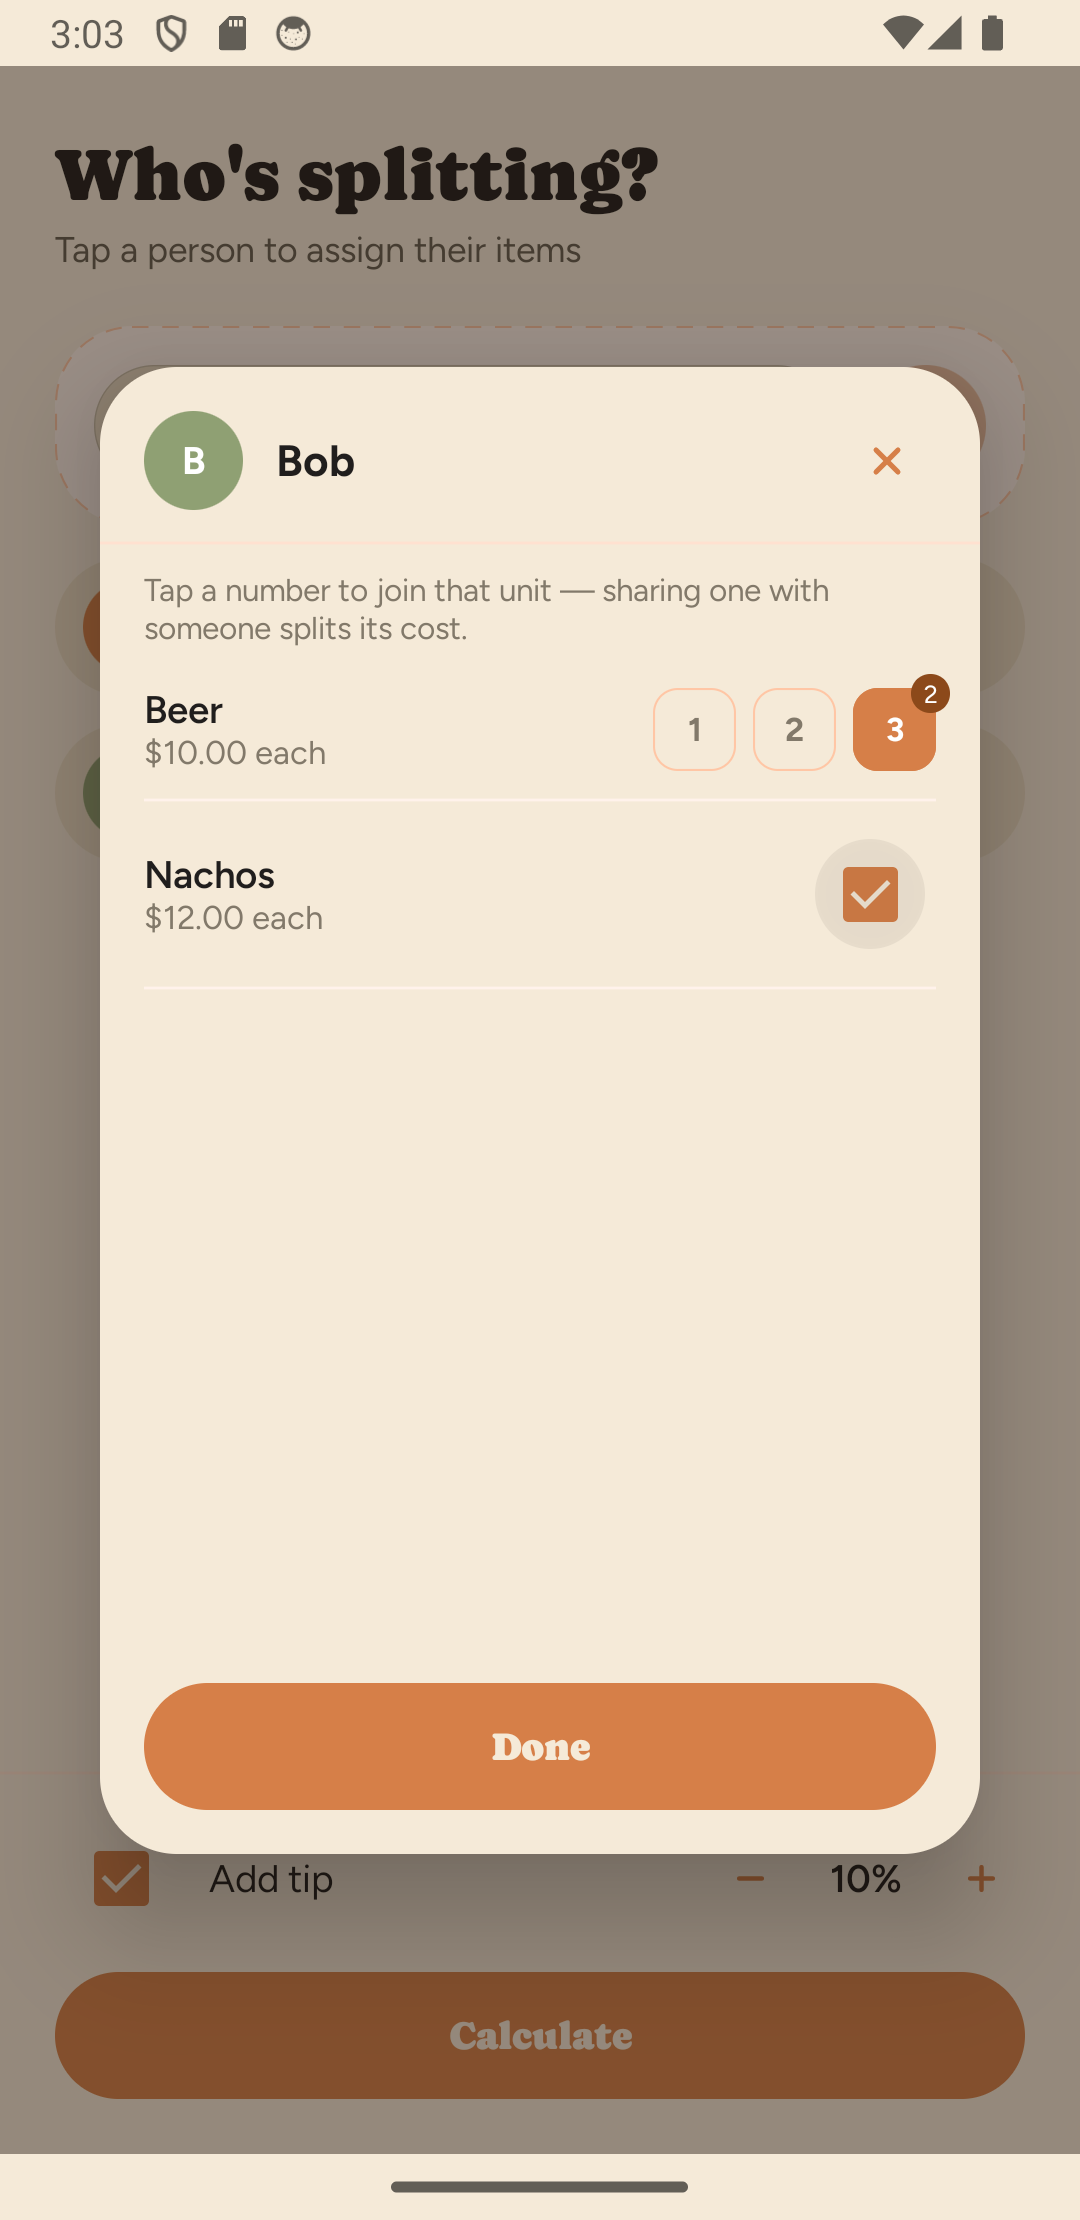
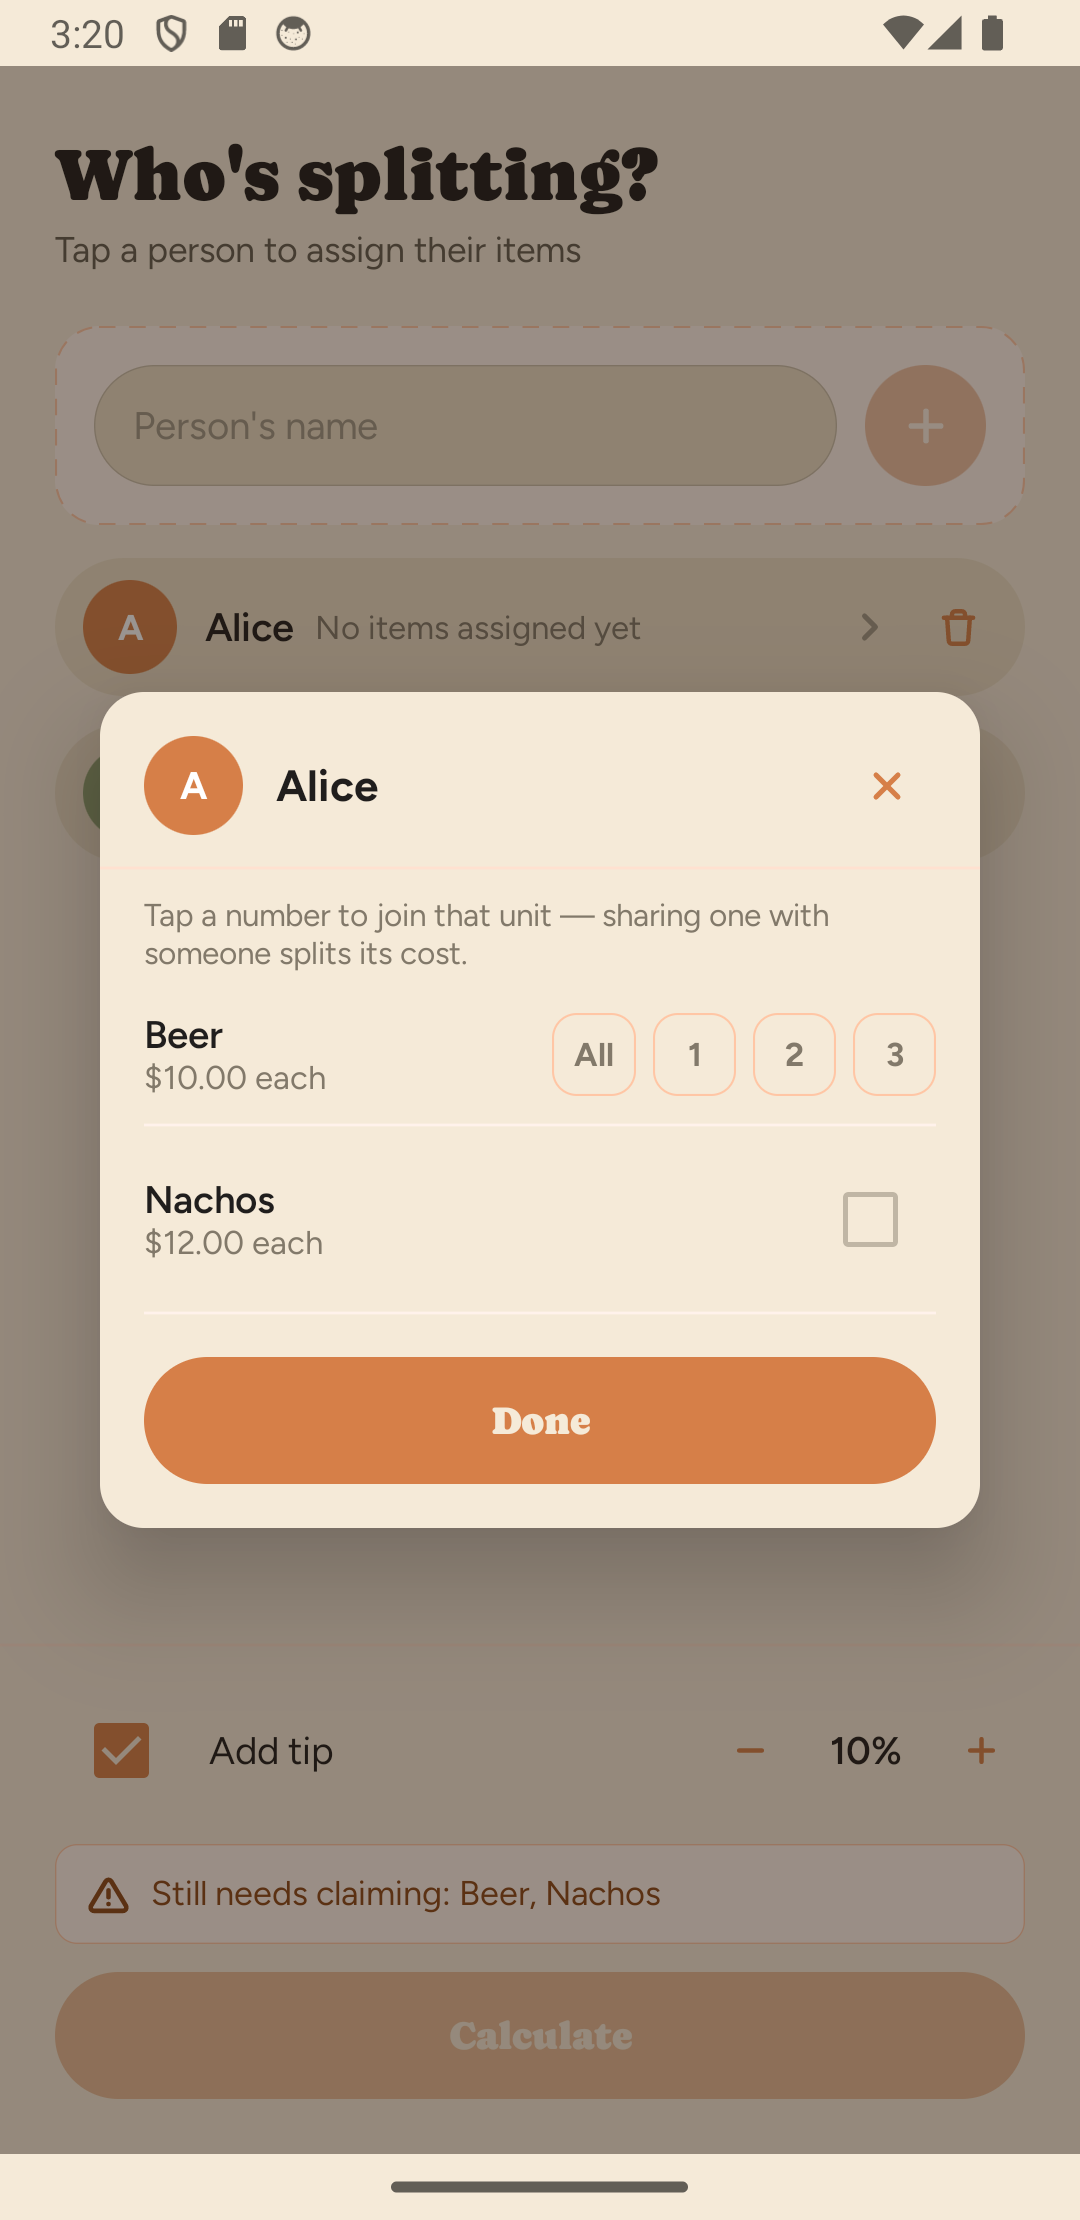
Refresh README highlights and screenshots (#8)
Add highlights for claiming a whole round at once and the POS-style money
entry, note the per-person subtotal in the results step, and regenerate
the three screenshots to show the current UI (tighter corners, the "All"
chip in the claim sheet, and the subtotal/total breakdown on results).

diff --git a/README.md b/README.md
@@ -19,18 +19,20 @@ A three-step wizard:
    sheet**. Each item has one slot per unit; tapping a unit claims it. When two
    people claim the same unit, its price splits between them. Add an optional
    tip.
-3. **Results** — a per-person total with an expandable breakdown of every item
-   and their share of the tip.
+3. **Results** — a per-person total, expandable into a breakdown of each item,
+   their subtotal, and their share of the tip.
 
 Highlights:
 
-- **Exact-cent math.** All money is integer cents; uneven splits allocate the
-  leftover pennies to the earliest claimers, so the shares always sum *exactly*
-  to the total (no $9.99-from-$10.00 drift).
+- **Exact-cent math.** All money is integer cents; uneven splits hand out the
+  leftover pennies by largest remainder, so the shares always sum *exactly* to
+  the total (no $9.99-from-$10.00 drift).
 - **Per-unit claiming.** Share one beer out of a round of three without splitting
-  the whole line.
+  the whole line — or claim the entire round in a single tap.
 - **Proportional tip.** Each person's tip is based on their own share of the tab,
   not an even split — someone who only had a $10 item tips on $10.
+- **POS-style money entry.** Prices accumulate from the right as you type — key
+  `1 0 5 0` and the field reads `10.50` — so amounts are always two decimals.
 - **Persists across restarts.** An in-progress tab is saved and restored.
 - **Localized** in English and Brazilian Portuguese (`pt-BR`), including the
   currency symbol.